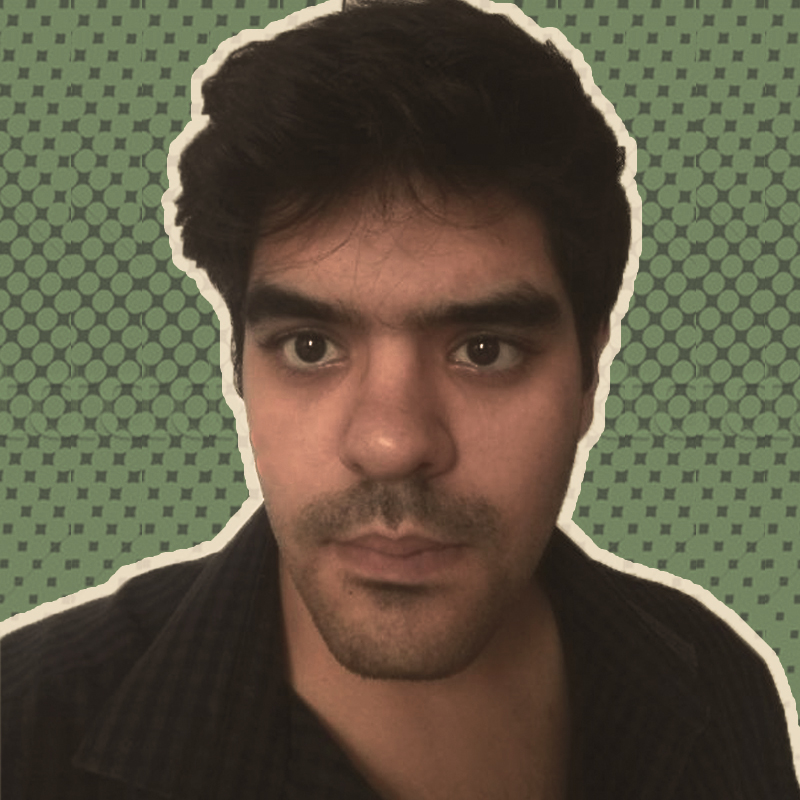
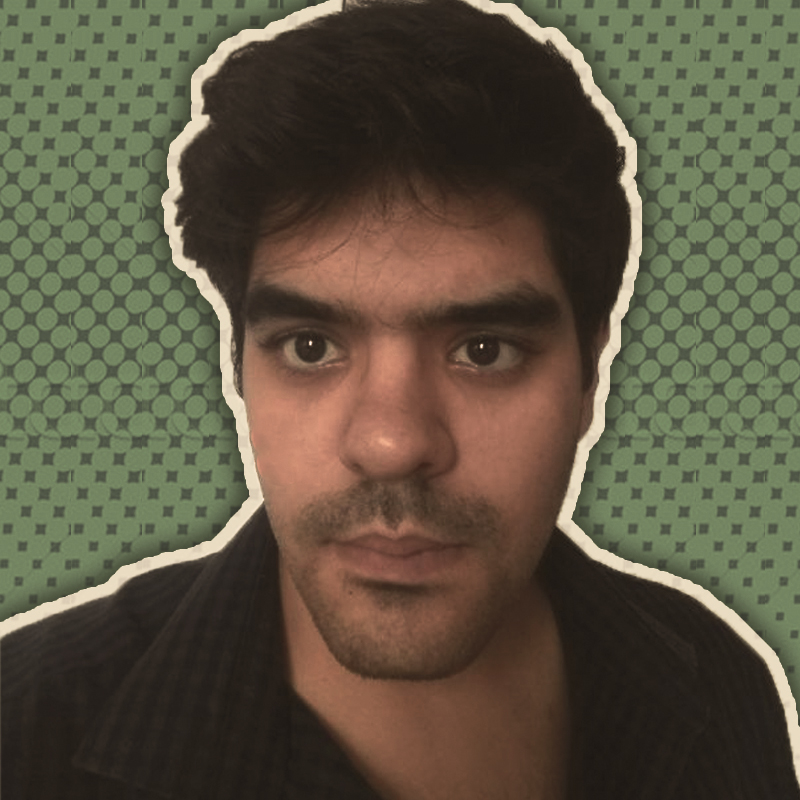
Home page
Conctac

diff --git a/index.html b/index.html
@@ -40,8 +40,8 @@
         <div class="content">
             <div class="row teste1">
                 <div class="col-6 teste">
-                    <h1>Hello world!<br>Tudo bem?</h1>
                     <p class="lead">Site em desenvolvimento</p>
+                    <h1>Hello world!<br>Tudo bem?</h1>
                     <p>Meu nome é Mateus Mazzoni, sou um estudante de ciência da computação em busca de sua primeira oportunidade de trabalho na area de TI</p>
                     <p>Lorem ipsum dolor sit amet, consectetur adipiscing elit. Proin pretium maximus odio, nec viverra mi molestie quis. Vestibulum neque nibh, dignissim eget egestas quis, volutpat sed tellus. Aenean ullamcorper, tellus ut feugiat maximus, ligula urna ultricies odio, ut rutrum arcu risus eget justo.</p>
 
@@ -341,9 +341,38 @@
                         </div>
                     </div>
 
+                </div>
+            </div>
+        </div>
+    </div>
 
 
-
+    <div class="container h-100 content-wrapper">
+        <div class="content">
+            <div class="row teste1">
+               <h1>Contato</h1>
+                <div class="col-6 teste">
+                    <p>mateusmazzoni7@gmail.com</p>
+                    <p>/mateus.mazzoni.77</p>
+                    <p>/mateus-mazzoni</p>
+                    <p>/mazzoni09</p>
+                </div>
+                <div class="col-6 teste">
+                    <form>
+                       <div class="form-group">
+                            <label for="exampleFormControlInput1">Nome</label>
+                            <input type="text" class="form-control" id="exampleFormControlInput1" placeholder="name@example.com">
+                        </div>
+                        <div class="form-group">
+                            <label for="exampleFormControlInput1">Email address</label>
+                            <input type="email" class="form-control" id="exampleFormControlInput1" placeholder="name@example.com">
+                        </div>
+                        <div class="form-group">
+                            <label for="exampleFormControlTextarea1">Menssagem</label>
+                            <textarea class="form-control" id="exampleFormControlTextarea1" rows="3"></textarea>
+                        </div>
+                        <button type="submit" class="btn btn-primary my-1">Submit</button>
+                    </form>
                 </div>
             </div>
         </div>
@@ -352,4 +381,5 @@
 
 
     <script src="https://cdn.jsdelivr.net/npm/bootstrap@5.0.0-beta3/dist/js/bootstrap.bundle.min.js" integrity="sha384-JEW9xMcG8R+pH31jmWH6WWP0WintQrMb4s7ZOdauHnUtxwoG2vI5DkLtS3qm9Ekf" crossorigin="anonymous"></script>
+    <script src="assets/main.js"></script>
 </body></html>

diff --git a/assets/main.js b/assets/main.js
@@ -1,0 +1,15 @@
+console.image = function(url, size = 100) {
+  var image = new Image();
+  image.onload = function() {
+    var style = [
+      'font-size: 1px;',
+      'padding: ' + this.height/100*size + 'px ' + this.width/100*size + 'px;',
+      'background: url('+ url +') no-repeat;',
+      'background-size: contain;'
+     ].join(' ');
+     console.log('%c ', style);
+  };
+  image.src = url;
+};
+
+console.image('https://mazzoni09.github.io/assets/images/MZN%20Monkey%20No%20Smoke%20.png' ,[10]);

diff --git a/assets/index.css b/assets/index.css
@@ -157,7 +157,7 @@ img {
 }
 
 .card {
-    height: 35rem;
+    height: 20rem;
 }
 
 .content2 {
@@ -311,6 +311,7 @@ img {
 }
 
 .neon_box {
+    height: 320px;
     border: 5px solid;
     border-image: linear-gradient(-45deg, #e150fb, #1fc9bd) 1;
     border: double 5px transparent;
